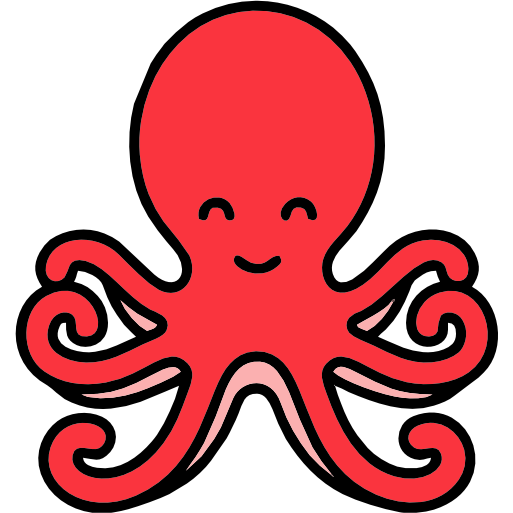
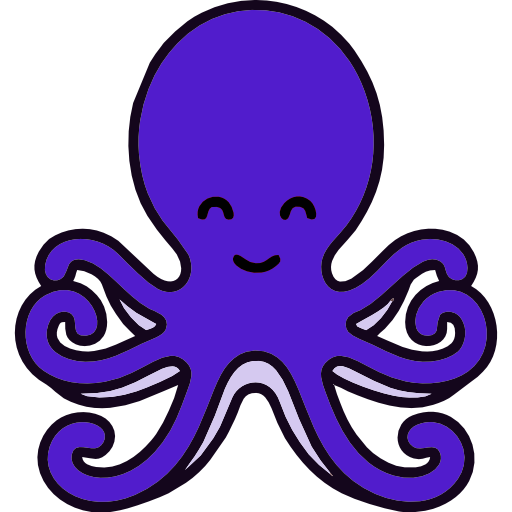
change brand

diff --git a/ui/src/pages/login.tsx b/ui/src/pages/login.tsx
@@ -3,46 +3,40 @@ import {graphql, HeadFC, PageProps} from "gatsby";
 import {Trans, useI18next} from "gatsby-plugin-react-i18next";
 import {LoginForm} from "@modules/auth";
 import {getLocales} from "@modules/core/i18n";
-import {version} from '../../package.json';
 import {StaticImage} from "gatsby-plugin-image";
+import bgImage from "@images/bg.jpg";
+import {version} from '../../package.json';
+
 
 
 const LoginPage: FC<PageProps> = () => {
     const {t} = useI18next();
     return (
         <>
-            <div className="container flex flex-col mx-auto bg-white rounded-lg pt-12 my-5">
-                <div
-                    className="flex justify-center w-full h-full my-auto xl:gap-14 lg:justify-normal md:gap-5">
-                    <div className="flex items-center justify-center w-full">
-                        <div className="flex items-center max-w-lg w-full">
-                            <div className="flex flex-col w-full h-full bg-white rounded-3xl">
-                                <div className="flex items-center flex-col justify-center">
-                                    <StaticImage src="../images/icon.png" alt={""} className="w-28 mb-4"/>
-                                    <h2 className="mb-3 text-4xl font-extrabold text-grey-dark-900 text-center">
-                                        <Trans i18nKey="app_name"/>
-                                    </h2>
-                                </div>
-                                <p className="text-center text-grey-dark-700 mb-4">
-                                    <Trans i18nKey="title"/>
-                                </p>
-                                <div className="flex items-center justify-center my-5">
-                                    <hr className="border-b border-grey-500 w-full"/>
-                                </div>
-                                <LoginForm/>
-                            </div>
-                        </div>
+            <div className="container max-w-lg w-full mx-auto mt-8">
+                <div className="px-8 pt-8 bg-[rgba(255,255,255,.7)] backdrop-blur-lg rounded-3xl">
+                    <div className="flex items-center flex-col justify-center">
+                        <StaticImage placeholder="none" loading="lazy" src="../images/icon.png" alt={""} className="w-28 mb-4"/>
+                        <h2 className="mb-3 text-4xl font-extrabold text-center">
+                            <Trans i18nKey="app_name"/>
+                        </h2>
                     </div>
+                    <h3 className="text-center mb-4">
+                        <Trans i18nKey="title"/>
+                    </h3>
+
+                    <LoginForm/>
                 </div>
             </div>
 
+
             <div className="flex flex-wrap -mx-3 my-5">
                 <div className="w-full max-w-full sm:w-3/4 mx-auto text-center">
-                    <p className="text-sm text-slate-500 py-1">
-                        ManagerLB <a
-                        href="https://github.com/startcodextech/managerlb"
-                        className="text-slate-700 hover:text-slate-900" target="_blank">v{version}</a> by <a
-                        href="https://startcodex.com" className="text-slate-700 hover:text-slate-900" target="_blank">Start
+                    <p className="text-sm text-white py-1 font-medium">
+                        OctopusLB <a
+                        href="https://github.com/startcodextech/OctopusLB"
+                        target="_blank">v{version}</a> by <a
+                        href="https://startcodex.com" target="_blank">Start
                         Codex</a> © {new Date().getFullYear()}.
                     </p>
                 </div>
@@ -58,7 +52,7 @@ export const Head: HeadFC = ({data}) => {
 
     return (
         <>
-            <body className="bg-gray-200"/>
+            <body className="bg-gray-200 !bg-cover !bg-no-repeat bg-center h-screen overflow-x-hidden" style={{background: `url(${bgImage})`}}/>
             <title>
                 {lang.title} | {lang.app_name}
             </title>

diff --git a/ui/tailwind.config.js b/ui/tailwind.config.js
@@ -84,65 +84,17 @@ module.exports = {
             },
             colors: {
                 primary: {
-                    default: '#FA343E',
-                    50: '#fef4f5',
-                    100: '#fdced0',
-                    200: '#fca7ac',
-                    300: '#fb8187',
-                    400: '#fa5a62',
-                    500: '#FA343E',
-                    600: '#c82931',
-                    700: '#961f25',
-                    800: '#641418',
-                    900: '#310a0c',
-                    light: {
-                        50: '#fef7f7',
-                        100: '#fed8db',
-                        200: '#febabe',
-                        300: '#fe9ba2',
-                        400: '#fe7d86',
-                        500: '#FE5F6A',
-                        600: '#cb4c54',
-                        700: '#98393f',
-                        800: '#65262a',
-                        900: '#321215',
-                    },
-                    dark: {
-                        50: '#fdf4f4',
-                        100: '#f6cbcc',
-                        200: '#f0a2a4',
-                        300: '#e97a7c',
-                        400: '#e35154',
-                        500: '#DD292D',
-                        600: '#b02024',
-                        700: '#84181b',
-                        800: '#581012',
-                        900: '#2c0808',
-                    }
-                },
-                grey: {
-                    50: '#fdfdfe',
-                    100: '#f7f8fb',
-                    200: '#f1f3f9',
-                    300: '#ebeef6',
-                    400: '#e5e9f4',
-                    500: '#E0E5F2',
-                    600: '#b3b7c1',
-                    700: '#868991',
-                    800: '#595b60',
-                    900: '#2c2d30',
-                    dark: {
-                        50: '#f9fafb',
-                        100: '#e4e7ee',
-                        200: '#ced4e1',
-                        300: '#b9c1d4',
-                        400: '#a4aec7',
-                        500: '#8F9BBA',
-                        600: '#727c94',
-                        700: '#555d6f',
-                        800: '#393e4a',
-                        900: '#1c1e25',
-                    }
+                    DEFAULT: '#511CCC',
+                    50: '#f6f3fc',
+                    100: '#d5c8f2',
+                    200: '#b49de9',
+                    300: '#9372df',
+                    400: '#7247d5',
+                    500: '#511CCC',
+                    600: '#4016a3',
+                    700: '#30107a',
+                    800: '#200b51',
+                    900: '#100528',
                 },
             },
         },

diff --git a/ui/src/components/input/input.tsx b/ui/src/components/input/input.tsx
@@ -53,7 +53,7 @@ const Input: FC<Props> = (props) => {
         <>
             {type === "password" ? (<>
                 <div
-                    className={`cursor-text inline-block relative${fullWidth ? ' w-full' : ''} ${focused ? 'bg-grey-400' : 'bg-grey-200'} rounded-2xl`}
+                    className={`cursor-text inline-block relative${fullWidth ? ' w-full' : ''} ${focused ? 'bg-gray-200' : 'bg-gray-100'} rounded-2xl`}
                     onClick={handleClick}
                     onBlur={handleBlur}
                     onFocus={handleFocus}>
@@ -121,7 +121,7 @@ const Input: FC<Props> = (props) => {
                         <input
                             {...rest}
                             onBlur={handleBlur}
-                            className={`bg-grey-200 border-none focus:ring-0 px-5 py-3 text-base font-medium outline-none focus:bg-grey-400 placeholder:text-grey-700 text-dark-grey-900 rounded-2xl${fullWidth ? ' w-full' : ''} ${className}`}/>
+                            className={`bg-gray-100 border-none focus:ring-0 px-5 py-3 text-base font-medium outline-none focus:bg-gray-200 placeholder:text-grey-700 text-dark-grey-900 rounded-2xl${fullWidth ? ' w-full' : ''} ${className}`}/>
                     </>
                 )}
                 </>

diff --git a/ui/src/modules/auth/components/login.form.tsx b/ui/src/modules/auth/components/login.form.tsx
@@ -21,7 +21,7 @@ const LoginForm = () => {
                 </div>
                 <div className="my-12 flex justify-center">
                     <button
-                        className="w-full px-6 py-5 mb-5 text-sm font-bold leading-none text-white transition duration-300 md:w-96 rounded-2xl hover:bg-primary-600 focus:ring-4 focus:ring-primary-100 bg-primary-500">
+                        className="w-full px-6 py-5 mb-5 text-sm font-bold leading-none text-white transition duration-300 md:w-96 rounded-2xl hover:bg-primary-600 focus:ring-4 focus:ring-primary-100 bg-primary">
                         <Trans i18nKey="title"/>
                     </button>
                 </div>

diff --git a/ui/gatsby-config.ts b/ui/gatsby-config.ts
@@ -20,8 +20,8 @@ const config: GatsbyConfig = {
         {
             resolve: 'gatsby-plugin-manifest',
             options: {
-                name: 'ManagerLB',
-                short_name: 'ManagerLB',
+                name: 'OctopusLB',
+                short_name: 'OctopusLB',
                 background_color: '#ffffff',
                 theme_color: '#000000',
                 start_url: '/',

diff --git a/ui/src/layouts/dashboard/navbar/dropdown-user.tsx b/ui/src/layouts/dashboard/navbar/dropdown-user.tsx
@@ -3,7 +3,6 @@ import {ClickOutside} from "@components";
 import {useI18next, Link as Url} from 'gatsby-plugin-react-i18next'
 import {Link} from "gatsby";
 import {StaticImage} from "gatsby-plugin-image";
-import dashboard from "@layouts/dashboard/dashboard";
 
 const DropdownUser: FC = () => {
     const {language, originalPath} = useI18next();
